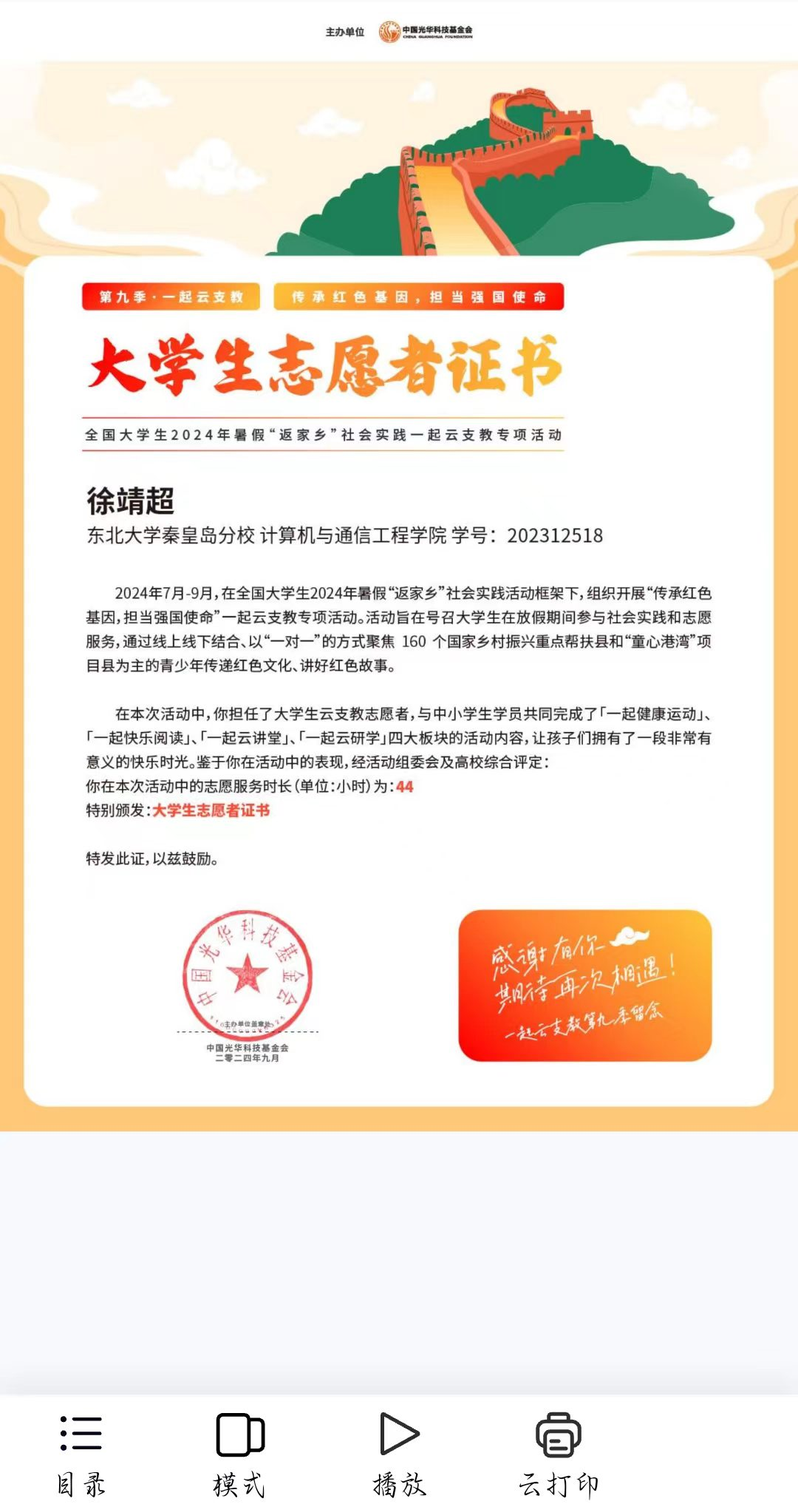
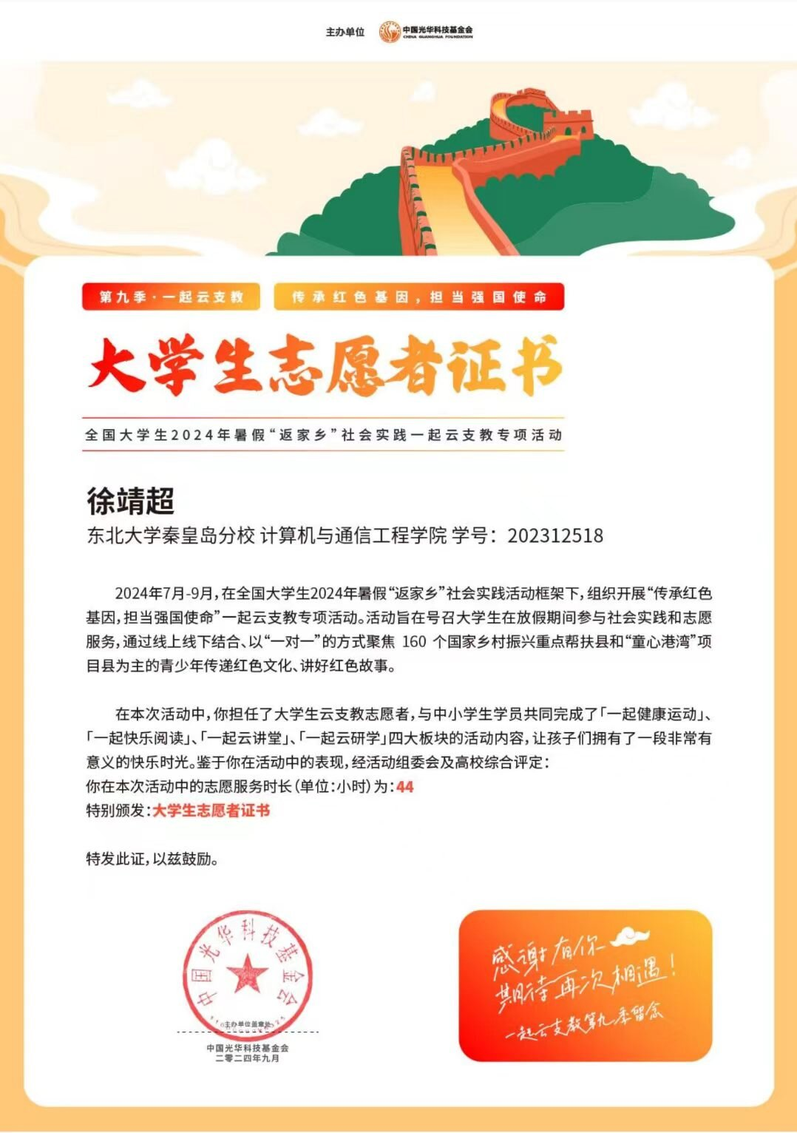
update

diff --git a/research.html b/research.html
@@ -51,26 +51,56 @@
             东北大学 · 指导老师：傅昌锃</p>
           <div class="tags-mini">
             <span class="tag-pill sm">PyTorch</span>
+            <span class="tag-pill sm">ONNX Runtime</span>
             <span class="tag-pill sm">EmoNet</span>
             <span class="tag-pill sm">wav2vec 2.0</span>
-            <span class="tag-pill sm">EEG</span>
+            <span class="tag-pill sm">EEG / rPPG</span>
+            <span class="tag-pill sm">PAD Space</span>
             <span class="tag-pill sm">Flask</span>
             <span class="tag-pill sm">MongoDB</span>
+            <span class="tag-pill sm">Qwen API</span>
           </div>
           <ul class="bullets">
             <li
-              data-en="Integrated four perception channels — EmoNet (facial), wav2vec 2.0 (speech), 8-band EEG power analysis, and rPPG (pulse) — within the PAD 3D affective space. Used Euclidean distance metrics and cross-modal weighted fusion to convert multi-channel physiological signals into quantifiable mental health indicators (e.g. self-confidence, mind-body balance), achieving 80% detection accuracy and overcoming the limits of subjective questionnaires.">
-              融合 EmoNet(面部)、wav2vec 2.0(语音)、EEG 8 频段功率分析及 rPPG(脉搏)四类感知通道，基于 PAD
-              三维情感空间，通过欧氏距离度量与跨模态加权融合，将多通道生理信号转化为自信力、身心平衡率等可量化心理健康指标，解决传统心理评估依赖主观量表的局限，系统检测准确率达 80%。</li>
+              data-en="<strong>Background:</strong> Traditional mental health assessment relies heavily on subjective scales (PHQ depression inventory, Big Five personality questionnaire, etc.), which suffer from low compliance, susceptibility to deliberate manipulation, and inability to capture fine-grained physiological states. This project builds a multimodal, automated mental health evaluation system centered on objective physiological signals, covering the full pipeline from data acquisition and feature extraction to indicator computation and report generation.">
+              <strong>项目背景：</strong>传统心理健康评估高度依赖 PHQ
+              抑郁量表、大五人格问卷等主观量表，存在被试配合度低、结果易受主观意愿干扰、难以捕捉细粒度生理状态等局限。本项目以客观生理信号为核心，构建多模态融合的心理健康自动化评测系统，实现从数据采集、特征提取、指标计算到报告生成的全流程闭环。
+            </li>
             <li
-              data-en="Built a modular RESTful API with Flask Blueprint, combined with MongoDB and JWT authentication, implementing a complete backend pipeline for data ingestion, fusion computation, and persistence.">
-              采用 Flask Blueprint 构建模块化 RESTful API，结合 MongoDB 与 JWT 认证，实现数据读取、融合计算与持久化的完整后端流水线。</li>
+              data-en="<strong>System Architecture:</strong> Three-layer design — frontend acquisition, backend processing, and data persistence. The backend uses Flask Blueprint to build a modular RESTful API, decomposed into independent blueprints for user management, data acquisition, analysis computation, and toolbox. JWT handles stateless authentication; MongoDB persists multimodal data and analysis results. Evaluation proceeds in four phases (video watching, self-introduction, reading task 1, reading task 2), each simultaneously collecting video and EEG data, with three signal streams processed and stored asynchronously in parallel.">
+              <strong>系统架构：</strong>分为前端采集层、后端处理层与数据持久层三部分。后端基于 Flask Blueprint 构建模块化 RESTful
+              API，按功能拆分为用户管理、数据采集、分析计算、工具箱等独立蓝图模块，JWT 实现无状态鉴权，MongoDB
+              负责多模态数据与分析结果的持久化存储。评测流程分为视频观看、自我介绍、阅读任务一、阅读任务二四个阶段，每阶段同步采集视频与 EEG 数据，三路信号异步并行处理与入库。
+            </li>
+            <li
+              data-en="<strong>Multimodal Signal Processing:</strong> Four physiological channels are fused: (1) <em>Facial expression</em> — EmoNet (Stacked HourGlass alignment + emotion head) extracts per-second facial Valence/Arousal; (2) <em>Speech emotion</em> — wav2vec 2.0-based ONNX model extracts per-second PAD (Pleasure-Arousal-Dominance) vectors; (3) <em>EEG</em> — NeuroSky MindWave captures δ/θ/α/β/γ band power spectra; sliding-window normalization yields attention, meditation, alertness, and wakefulness indicators; (4) <em>rPPG pulse</em> — green-channel ROI signals from video frames are extracted via FFT spectral analysis to estimate heart rate, SpO₂, and respiration rate; heart rate variability is classified according to TCM pulse theory (slow/rapid/deep/floating pulse types).">
+              <strong>多模态信号处理：</strong>融合四类生理信号——（1）<em>面部表情</em>：EmoNet（Stacked HourGlass 人脸对齐 + 情感识别头）逐秒提取面部
+              Valence/Arousal；（2）<em>语音情感</em>：基于 wav2vec 2.0 的 ONNX 模型逐秒提取语音 PAD 三维情感向量；（3）<em>EEG 脑电</em>：接入 NeuroSky
+              MindWave 采集 δ/θ/α/β/γ 频段功率谱，经滑动窗口归一化后计算注意力、冥想度、警觉度、清醒度等指标；（4）<em>rPPG 脉搏</em>：从视频帧 ROI 绿色通道提取光体积描记信号，结合
+              FFT 频谱分析估算心率、血氧与呼吸频率，并参照中医脉象理论（迟脉、数脉、沉脉、浮脉等）对心率变异性进行分类描述。
+            </li>
+            <li
+              data-en="<strong>Indicator Fusion:</strong> All modality features are unified in the PAD (Pleasure-Arousal-Dominance) affective space. Euclidean distances between current affective coordinates and preset emotion prototypes (anxiety, relaxation, hostility, stress, etc.) are computed, then combined via cross-modal weighted fusion to produce 20+ mental health indicators across three dimensions: <em>Positive affect</em> (self-confidence, mind-body balance, self-regulation, energy, vitality); <em>Negative affect</em> (aggressiveness, tension, facial stress, suspicion index); <em>Physiological parameters</em> (attention, relaxation, fatigue, anxiety, stress, depression, happiness, wakefulness). Standardized scale data (PHQ, Big Five, GWB) are used for supplementary validation, and Big Five personality traits (Extraversion, Agreeableness, Conscientiousness, Neuroticism, Openness) are objectively estimated.">
+              <strong>指标计算与融合：</strong>所有模态特征统一映射至 PAD 情感空间，计算当前情感坐标与预设情感原型（焦虑、放松、敌意、压力等）之间的欧氏距离，结合跨模态加权融合，输出涵盖三个维度的 20
+              余项心理健康指标：<em>正面情绪</em>（自信力、身心平衡率、自我调节能力、能量、活力）、<em>负面情绪</em>（攻击性、紧张度、表情压力、可疑度）、<em>生理参数</em>（注意力、放松度、疲劳/焦虑/压力/抑郁指数、幸福感、清醒度等）。结合
+              PHQ、大五人格、GWB 等标准化量表数据进行补充校验，并基于大五人格模型给出外向性、宜人性、尽责性、神经质、开放性的客观估计。
+            </li>
+            <li
+              data-en="<strong>AI Report Generation:</strong> Upon completion of all indicator computations, the system invokes the Qwen large language model with structured data as context to generate a personalized mental health analysis report in HTML format. The report covers four sections: positive affect interpretation, negative affect interpretation, physiological parameter analysis, and adjustment recommendations, with horizontal comparison against historical averages.">
+              <strong>AI 报告生成：</strong>所有指标计算完成后，以结构化数据为上下文调用 Qwen 大语言模型，生成个性化心理健康分析报告（HTML
+              格式），包含正面情绪解读、负面情绪解读、生理参数分析与调整建议四个板块，并与历史均值进行横向比较。
+            </li>
+            <li
+              data-en="<strong>Personal Contribution:</strong> Responsible for the design and development of the core analysis module: aggregating multimodal data (facial, speech, EEG, pulse) from MongoDB across all evaluation phases; implementing Euclidean distance metrics and cross-modal weighted fusion in the PAD affective space; computing 20+ mental health indicators (self-confidence, mind-body balance, anxiety index, depression index, etc.) and deriving Big Five personality traits; invoking the Qwen API to transform structured indicators into personalized HTML reports; persisting all analysis results to the database; and developing and testing the corresponding API routes.">
+              <strong>个人贡献：</strong>负责系统核心分析模块的设计与开发：从 MongoDB 聚合各阶段面部、语音、EEG、脉搏四类多模态数据；基于 PAD
+              情感空间实现欧氏距离度量与跨模态加权融合；完成自信力、身心平衡率、焦虑指数、抑郁指数等 20 余项心理健康指标的计算逻辑，并基于大五人格模型推导外向性、宜人性等人格特征；调用 Qwen API
+              将结构化指标转化为个性化 HTML 分析报告；将全部分析结果持久化写回数据库，完成相关 API 路由的开发与接口测试。
+            </li>
           </ul>
           <figure class="card-figure">
             <img src="assets/research/心理健康检测系统架构图.png" alt="多模态心理健康检测系统架构图" loading="lazy"
               onerror="this.src='assets/avatar.jpg';this.classList.add('placeholder');">
-            <figcaption data-en="System architecture (placeholder, replace with your figure)">系统架构图
-            </figcaption>
+            <figcaption data-en="System architecture diagram">系统架构图</figcaption>
           </figure>
         </article>
 
@@ -84,25 +114,56 @@
             东北大学 · 指导老师：傅昌锃</p>
           <div class="tags-mini">
             <span class="tag-pill sm">Knowledge Distillation</span>
+            <span class="tag-pill sm">PPHA</span>
             <span class="tag-pill sm">wav2vec2-large-robust</span>
+            <span class="tag-pill sm">MSP-Podcast</span>
             <span class="tag-pill sm">IEMOCAP</span>
+            <span class="tag-pill sm">CCC Loss</span>
+            <span class="tag-pill sm">Optuna</span>
             <span class="tag-pill sm">PyTorch</span>
           </div>
           <ul class="bullets">
             <li
-              data-en="Studied knowledge distillation of large speech pretrained models (wav2vec2-large-robust). Designed Pre-Post Hidden Alignment (PPHA), aligning the change directions of teacher hidden representations before and after fine-tuning to guide the student toward emotion-relevant features, compressing 12-layer models to 6/3 layers.">
-              研究大型语音预训练模型(wav2vec2-large-robust)的知识蒸馏，设计 Pre-Post Hidden Alignment
-              方法，通过对齐教师模型微调前后隐层表示的变化方向，引导学生模型学习情感相关特征，将 12 层模型压缩至 6 层/3 层。</li>
+              data-en="<strong>Background:</strong> Speech Emotion Recognition (SER) predicts continuous affective dimensions (Arousal / Valence / Dominance) from speech. Self-supervised models such as wav2vec 2.0 achieve state-of-the-art results but are prohibitively large (wav2vec2-large: 330M parameters) for resource-constrained deployment. Existing distillation methods only align the teacher's post-fine-tuning activations, ignoring the systematic hidden-state shift induced by fine-tuning — a shift that directly encodes task-relevant information.">
+              <strong>研究背景：</strong>语音情感识别（SER）旨在从语音信号中预测连续情感维度（Arousal / Valence / Dominance）。以 wav2vec 2.0
+              为代表的自监督预训练模型在 SER 任务上表现突出，但参数量庞大（wav2vec2-large 达
+              330M），难以在资源受限场景部署。现有蒸馏方法仅对齐教师微调后的绝对激活值，忽略了微调过程中隐层表示发生的系统性适应偏移——而该偏移本身正是任务相关信息的重要载体。
+            </li>
             <li
-              data-en="Conducted 5-fold cross-validation on IEMOCAP comparing four distillation strategies (CCC-only / Output-KD / FitNets / PPHA), analyzing how different loss designs affect Arousal/Dominance/Valence dimensions and revealing how hidden-magnitude imbalance interferes with distillation signals.">
-              在 IEMOCAP 数据集上以 5 折交叉验证系统对比四种蒸馏策略(CCC-only / Output-KD / FitNets / PPHA)，分析不同 loss 设计对
-              Arousal/Dominance/Valence 三维情感的影响，揭示隐层幅度失衡对蒸馏信号的干扰机制。</li>
+              data-en="<strong>PPHA Method:</strong> Proposed Pre-Post Hidden Alignment (PPHA): taking the teacher's hidden adaptation shift (pre-training → fine-tuning) as the distillation target rather than the post-fine-tuning absolute states. Teacher and student each maintain a frozen reference (pre-fine-tuning) checkpoint; temperature-scaled softmax log-differences of their hidden representations are aligned via MSE loss. All models stem from the same wav2vec2-large-robust checkpoint (24 layers): teacher = first 12 layers (165M), student L6 = first 6 layers (83M), student L3 = first 3 layers (42M). Optimal teacher layers {4, 7, 11, 12} for alignment were selected via Optuna TPE over 100 trials.">
+              <strong>PPHA 方法：</strong>提出 Pre-Post Hidden
+              Alignment（PPHA）蒸馏框架，以教师模型从预训练态到微调态的隐层适应偏移作为蒸馏目标，而非微调后的绝对隐层状态。教师与学生各自保留一个冻结的预训练参考检查点，对微调前后的隐层表示分别进行温度缩放
+              softmax 映射并取对数差分，再以 MSE 对齐两者。所有模型均从同一 wav2vec2-large-robust 预训练检查点出发：教师取前 12 层（165M），学生 L6 取前 6 层（83M），学生
+              L3 取前 3 层（42M）。参与对齐的教师层 {4, 7, 11, 12} 经 Optuna TPE 100 次试验搜索确定。
+            </li>
+            <li
+              data-en="<strong>Auxiliary Techniques:</strong> (1) Slope Regularization — CCC optimization tends to converge to near-constant predictions (slope → 0), producing spurious high correlation. A sin²-penalty on the angular deviation of the predicted slope from 45° is multiplicatively appended to the CCC loss, effectively preventing conservative predictions (especially critical for the Valence dimension). (2) Uncertainty-Weighted Loss (UWL) — learnable log-variance parameters automatically balance the PPHA alignment loss against the CCC loss, eliminating manual tuning.">
+              <strong>辅助技术：</strong>（1）<em>斜率正则化</em>——CCC 优化易收敛至近常数预测（斜率趋近 0），产生虚假高相关；通过对预测斜率偏离 45° 的角度施加 sin²
+              惩罚项并以乘法形式附加到 CCC 损失上，有效防止保守预测，对效价（Valence）维度尤为重要。（2）<em>不确定性加权损失（UWL）</em>——引入可学习 log 方差参数，自动平衡 PPHA 对齐损失与
+              CCC 损失的比例，无需手动调参。
+            </li>
+            <li
+              data-en="<strong>Experiments:</strong> Evaluated on MSP-Podcast v1.10 (63,076 training samples; Test1: 16,903 samples same retrieval protocol; Test2: 13,289 samples from independent podcasts) and IEMOCAP (10,039 utterances, 5-fold LOSO cross-validation). Conducted cross-corpus evaluation in both directions to assess generalization. Systematically ablated 5 loss combinations (P / P+S / P+U / A+S+U / P+S+U) across 3 student sizes (L3/L6/L12), with A+S+U as the FitNets-style baseline.">
+              <strong>实验设置：</strong>在 MSP-Podcast v1.10（训练集 63,076 条；Test1 16,903 条与训练集同检索协议；Test2 13,289 条来自完全独立播客）和
+              IEMOCAP（10,039 条语音，5折留一会话交叉验证）上进行评估，并开展双向跨语料库泛化测试。系统消融 5 种损失组合（P / P+S / P+U / A+S+U / P+S+U）× 3
+              种学生规模（L3/L6/L12），以 A+S+U（FitNets 式直接对齐）为基线对照。
+            </li>
+            <li
+              data-en="<strong>Key Results:</strong> L12 student surpasses teacher on both MSP (CCC .487 vs .464) and IEMOCAP (.632 vs .606) at identical capacity, demonstrating the gain stems from the training framework itself. L6 retains 86–96% of teacher performance; L3 retains 84–93%. PPHA outperforms FitNets baseline on IEMOCAP (.632 vs .612) and MSP Test1/Test2 (.559/.415 vs .543/.398), with consistent advantage in cross-corpus transfer in both directions.">
+              <strong>主要结果：</strong>同容量条件下（L12 学生 vs 教师），学生在 MSP（CCC .487 vs .464）和 IEMOCAP（.632 vs
+              .606）上均超越教师，证明性能提升源于训练框架本身。L6 保留教师性能的 86–96%，L3 保留 84–93%。PPHA 在 IEMOCAP（.632 vs .612）和 MSP
+              Test1/Test2（.559/.415 vs .543/.398）上均优于 FitNets 基线，跨语料库迁移方向上亦保持一致优势。
+            </li>
+            <li
+              data-en="<strong>Personal Contribution:</strong> Solely responsible for the full IEMOCAP experimental pipeline: data preprocessing (audio conversion, label parsing, 5-fold split), implementation of the distillation training framework (PPHA loss, PKL pre-computation, gradient accumulation and other engineering optimizations), ablation study design and result analysis, and cross-corpus generalization evaluation.">
+              <strong>本人贡献：</strong>独立负责 IEMOCAP 数据集实验全流程：数据预处理（音频转换、标签解析、5折划分）、蒸馏训练框架代码实现（含 PPHA 损失、PKL
+              预计算、梯度累积等工程优化）、消融实验设计与结果分析，以及跨语料库泛化评估。
+            </li>
           </ul>
           <figure class="card-figure">
             <img src="assets/research/知识蒸馏框架图.png" alt="知识蒸馏框架图" loading="lazy"
               onerror="this.src='assets/avatar.jpg';this.classList.add('placeholder');">
-            <figcaption data-en="Distillation strategy comparison (placeholder, replace with your figure)">
-              知识蒸馏框架图</figcaption>
+            <figcaption data-en="PPHA distillation framework">知识蒸馏框架图</figcaption>
           </figure>
         </article>
 
@@ -114,41 +175,55 @@
           <p class="meta" data-en="Northeastern University · Advisor: Prof. Changzeng Fu">
             东北大学 · 指导老师：傅昌锃</p>
           <div class="tags-mini">
+            <span class="tag-pill sm">Wav2Lip</span>
+            <span class="tag-pill sm">ResNet-18</span>
             <span class="tag-pill sm">BiLSTM</span>
             <span class="tag-pill sm">DistilBERT</span>
-            <span class="tag-pill sm">ResNet-18</span>
             <span class="tag-pill sm">Cross-Attention</span>
             <span class="tag-pill sm">FiLM</span>
+            <span class="tag-pill sm">3D PatchGAN</span>
+            <span class="tag-pill sm">LPIPS</span>
           </div>
           <ul class="bullets">
-            <li
-              data-en="Designed a multimodal feature fusion framework integrating audio Mel-spectrograms (BiLSTM encoding), textual sentiment (DistilBERT), and visual frame features (ResNet-18). Used Temporal Cross-Attention for audio-visual alignment to drive digital human facial animation.">
-              设计多模态特征融合框架，融合音频 Mel 频谱(BiLSTM 编码)、文本语义情感(DistilBERT)与视觉帧特征(ResNet-18)，通过时序跨注意力机制(Temporal
-              Cross-Attention)实现音视频对齐，驱动数字人面部动画生成。</li>
-            <li
-              data-en="Proposed an upper-/lower-face decoupled generation strategy: an upper-face branch (eye-attention module + micro-expression controller covering blinks, brow raises, gaze) and a lower-face branch (audio-driven lip-sync), combined with FiLM modulation layers for fine-grained emotional control.">
-              提出上下半脸解耦生成策略，设计独立的上半脸分支（眼部注意力模块 + 微表情控制器，覆盖眨眼、扬眉、目光变化）与下半脸分支（音频驱动口型生成），并结合 FiLM 调制层实现情感特征对生成过程的精细控制。</li>
+            <li data-en="<strong>Background:</strong> Wav2Lip is the dominant audio-driven talking-face synthesis solution, but its core limitation is that only lip movement is driven — the rest of the face (expressions, gaze, brows) remains completely static, making the output look mechanical and unconvincing. This project targets precisely this gap: while preserving audio-driven lip sync, it introduces expression generation so that a digital human's face exhibits natural emotional variation during speech. As development progressed, eye details (blink rhythm, gaze direction) and brow movement proved equally critical to perceived realism, prompting dedicated modeling of these regions.">
+              <strong>项目背景：</strong>Wav2Lip 是目前主流的音频驱动说话人脸生成方案，但其核心局限在于只能驱动嘴唇运动，面部其余区域（表情、眼神、眉毛等）完全静止，生成结果显得机械、缺乏真实感。本项目针对这一局限：在保留音频驱动唇形同步的基础上引入表情生成能力，使数字人面部在说话时能呈现自然的情感变化；随着开发推进，眼部细节（眨眼节律、眼神方向）和眉毛运动对真实感同样关键，因此逐步扩展了对这些区域的专项建模。</li>
+            <li data-en="<strong>Architecture — Decoupled Upper/Lower Face:</strong> The face generation task is decomposed into two independent branches — upper face (eyes, brows) and lower face (lips) — driven by different modality signals and merged via a learnable fusion mask. Key modules: (1) <em>Full-face encoder</em>: ResNet-18 backbone with gradient checkpointing extracts multi-scale visual features from the reference frame; (2) <em>Audio encoder</em>: three-stream parallel multi-scale Conv1d + BiLSTM models per-frame audio; (3) <em>Text emotion encoder</em>: DistilBERT extracts sentence-level affective features to drive expression; (4) <em>Lower-face branch</em>: audio-primary, temporal cross-attention with time-delay bias for audio-visual alignment, FiLM conditional modulation for lip animation; (5) <em>Upper-face branch</em>: fuses audio and text emotion features to predict micro-expression parameters (blink probability, brow raise, gaze direction) with landmark heatmap attention for eye detail enhancement; (6) <em>Dynamic fusion</em>: convolutional network predicts per-pixel soft weights from 68-point landmark heatmaps to smoothly merge both branches.">
+              <strong>架构——上下半脸解耦：</strong>将人脸生成分解为<em>上半脸（眼部/眉毛）</em>与<em>下半脸（嘴唇）</em>两条独立分支，分别由不同模态信号驱动，再通过可学习融合掩码合并。主要模块：（1）<em>全脸编码器</em>：ResNet-18 backbone + gradient checkpointing 提取参考帧多尺度视觉特征；（2）<em>音频编码器</em>：三路并行多尺度 Conv1d + 双向 LSTM 建模逐帧音频；（3）<em>文本情感编码器</em>：DistilBERT 提取句子级情感特征驱动表情；（4）<em>下半脸分支</em>：以音频为主驱动，带时延偏置的时序交叉注意力对齐音视频，FiLM 条件调制生成唇部动画；（5）<em>上半脸分支</em>：融合音频与文本情感特征，预测微表情参数（眨眼概率、挑眉程度、视线方向），关键点热图注意力增强眼部细节；（6）<em>动态融合</em>：卷积网络基于 68 点关键点热图预测逐像素软融合权重，平滑合并上下半脸。</li>
+            <li data-en="<strong>Training Strategy &amp; Losses:</strong> Curriculum learning in four stages: freeze upper branch → train lips only; freeze lower branch → train eyes/brows only; unfreeze all for joint optimization; finally introduce adversarial training. Discriminators: 3D temporal PatchGAN (global temporal consistency) + eye-region local PatchGAN (eye detail realism). Loss terms: pixel L1, LPIPS perceptual loss, identity consistency, skin-tone loss, micro-expression smoothness, gaze coherence; a dynamic weight scheduler balances all terms throughout training.">
+              <strong>训练策略与损失：</strong>分阶段课程学习：冻结上半脸专训唇部 → 冻结下半脸专训眼眉 → 全部解冻整体优化 → 引入对抗训练。判别器：3D 时序 PatchGAN（整体时序一致性）+ 眼部局部 PatchGAN（眼部细节真实感）。损失体系涵盖像素 L1、LPIPS 感知损失、身份一致性、肤色损失、微表情平滑、视线连贯性等，并设计动态权重调度器平衡各分项。</li>
+            <li data-en="<strong>Limitations &amp; Outcome:</strong> The project did not reach the intended generation quality due to three constraints: (1) <em>Compute</em> — single consumer-grade GPU, batch size 1; the full training plan (1000 epochs including adversarial stage) could not be completed; training was halted at epoch 124; (2) <em>Data</em> — limited scale and uneven quality; landmark detection noise under profile views and occlusion degraded training stability for both branches; (3) <em>Complexity vs. trainability trade-off</em> — the multi-module design required more data and compute than available; greater model complexity raised the bar for training convergence rather than lowering it.">
+              <strong>局限与结果：</strong>项目最终未达预期生成质量，受三点制约：（1）<em>算力不足</em>——单卡消费级 GPU、批次大小仅为 1，完整训练计划（1000 epoch 含对抗阶段）无法跑完，实际训练至第 124 epoch 终止；（2）<em>数据有限</em>——规模小、质量参差，侧脸和遮挡场景下关键点检测噪声大，直接影响两路分支的训练稳定性；（3）<em>复杂度与可训练性的矛盾</em>——多子模块设计对数据量和训练充分性要求更高，在当前条件下反而带来训练困难。</li>
+            <li data-en="<strong>Takeaways:</strong> Completed the full cycle from design to implementation of a multimodal generation system; gained firsthand experience with audio-visual alignment, generative model training instability, and GPU memory optimization. Developed a clearer understanding of the technical boundaries of Wav2Lip-style approaches and the genuine difficulty of adding expression generation. Recognized that under resource constraints, model design requires more deliberate trade-offs between complexity and trainability.">
+              <strong>收获：</strong>完整走过多模态生成系统从设计到实现的全流程，对音视频对齐、生成模型训练不稳定性、显存优化等问题有了切身认识；对 Wav2Lip 等主流方案的技术边界有了更清晰的判断；认识到资源受限条件下模型设计需在复杂度与可训练性之间做更审慎的权衡。</li>
           </ul>
           <figure class="card-figure">
             <img src="assets/research/数字人.png" alt="数字人面部生成系统效果图" loading="lazy"
               onerror="this.src='assets/avatar.jpg';this.classList.add('placeholder');">
-            <figcaption data-en="Generation pipeline & demo (placeholder, replace with your figure)">面部识别图
+            <figcaption data-en="Generation pipeline diagram">面部生成系统架构图
             </figcaption>
           </figure>
         </article>
 
       </div><!-- /.timeline -->
 
-      <!-- <h3 class="sub" data-en="Publications / Preprints">论文 / 预印本</h3>
+      <h3 class="sub" data-en="Research Output">科研产出</h3>
       <ol class="pubs">
-        <li data-en="<strong>Jingchao Xu</strong>, et al. <em>Paper Title Goes Here.</em> Conference / Journal, 2025. [<a href='#' target='_blank' rel='noopener'>PDF</a>] [<a href='#' target='_blank' rel='noopener'>Code</a>] <span class='tag'>Under Review</span>">
-          <strong>徐靖超</strong>, 待补充.
-          <em>Paper Title Goes Here.</em>
-          会议 / 期刊名, 2025.
-          [<a href="#" target="_blank" rel="noopener">PDF</a>] [<a href="#" target="_blank" rel="noopener">代码</a>]
+        <li
+          data-en="Jiacheng Dong, <strong>Jingchao Xu</strong>, Shiqi Zhao, Changzeng Fu. &ldquo;PPHA: Pre-Post Hidden Alignment for Knowledge Distillation in Speech Emotion Recognition.&rdquo; <span class='tag'>Under Review</span> &nbsp; 2nd Author &nbsp; Paper">
+          Jiacheng Dong, <strong>Jingchao Xu</strong>, Shiqi Zhao, Changzeng Fu.
+          &ldquo;PPHA: Pre-Post Hidden Alignment for Knowledge Distillation in Speech Emotion Recognition.&rdquo;
           <span class="tag">在投</span>
+          <span class="role-tag" style="font-size:.78rem;padding:1px 7px;">第二作者</span>
+          <span class="role-tag" style="font-size:.78rem;padding:1px 7px;">论文</span>
         </li>
-      </ol> -->
+        <li
+          data-en="&ldquo;A Multimodal Depression Recognition Method Based on Personalized Embedding.&rdquo; Invention Patent. <span class='tag'>Filed</span> &nbsp; 2nd Inventor &nbsp; Patent">
+          &ldquo;一种基于个性化嵌入的多模态抑郁识别方法&rdquo;
+          <span class="tag">已受理</span>
+          <span class="role-tag" style="font-size:.78rem;padding:1px 7px;">学生第二发明人</span>
+          <span class="role-tag" style="font-size:.78rem;padding:1px 7px;">发明专利</span>
+        </li>
+      </ol>
     </section>
 
   </main>

diff --git a/activities.html b/activities.html
@@ -126,7 +126,7 @@
         <figure class="card-figure">
           <img src="assets/certs/挑战杯.jpg" alt="挑战杯志愿服务证书" loading="lazy"
             onerror="this.src='assets/avatar.jpg';this.classList.add('placeholder');">
-          <figcaption data-en="Challenge Cup Volunteer Certificate">挑战杯志愿服务证书</figcaption>
+          <figcaption data-en="Challenge Cup Volunteer Certificate">挑战杯志愿服务记录</figcaption>
         </figure>
       </article>
 
@@ -147,7 +147,7 @@
         <figure class="card-figure">
           <img src="assets/certs/程序设计竞赛.jpg" alt="程序设计竞赛志愿服务证书" loading="lazy"
             onerror="this.src='assets/avatar.jpg';this.classList.add('placeholder');">
-          <figcaption data-en="Programming Contest Volunteer Certificate">程序设计竞赛志愿服务证书</figcaption>
+          <figcaption data-en="Programming Contest Volunteer Certificate">程序设计竞赛志愿服务记录</figcaption>
         </figure>
       </article>
     </section>
